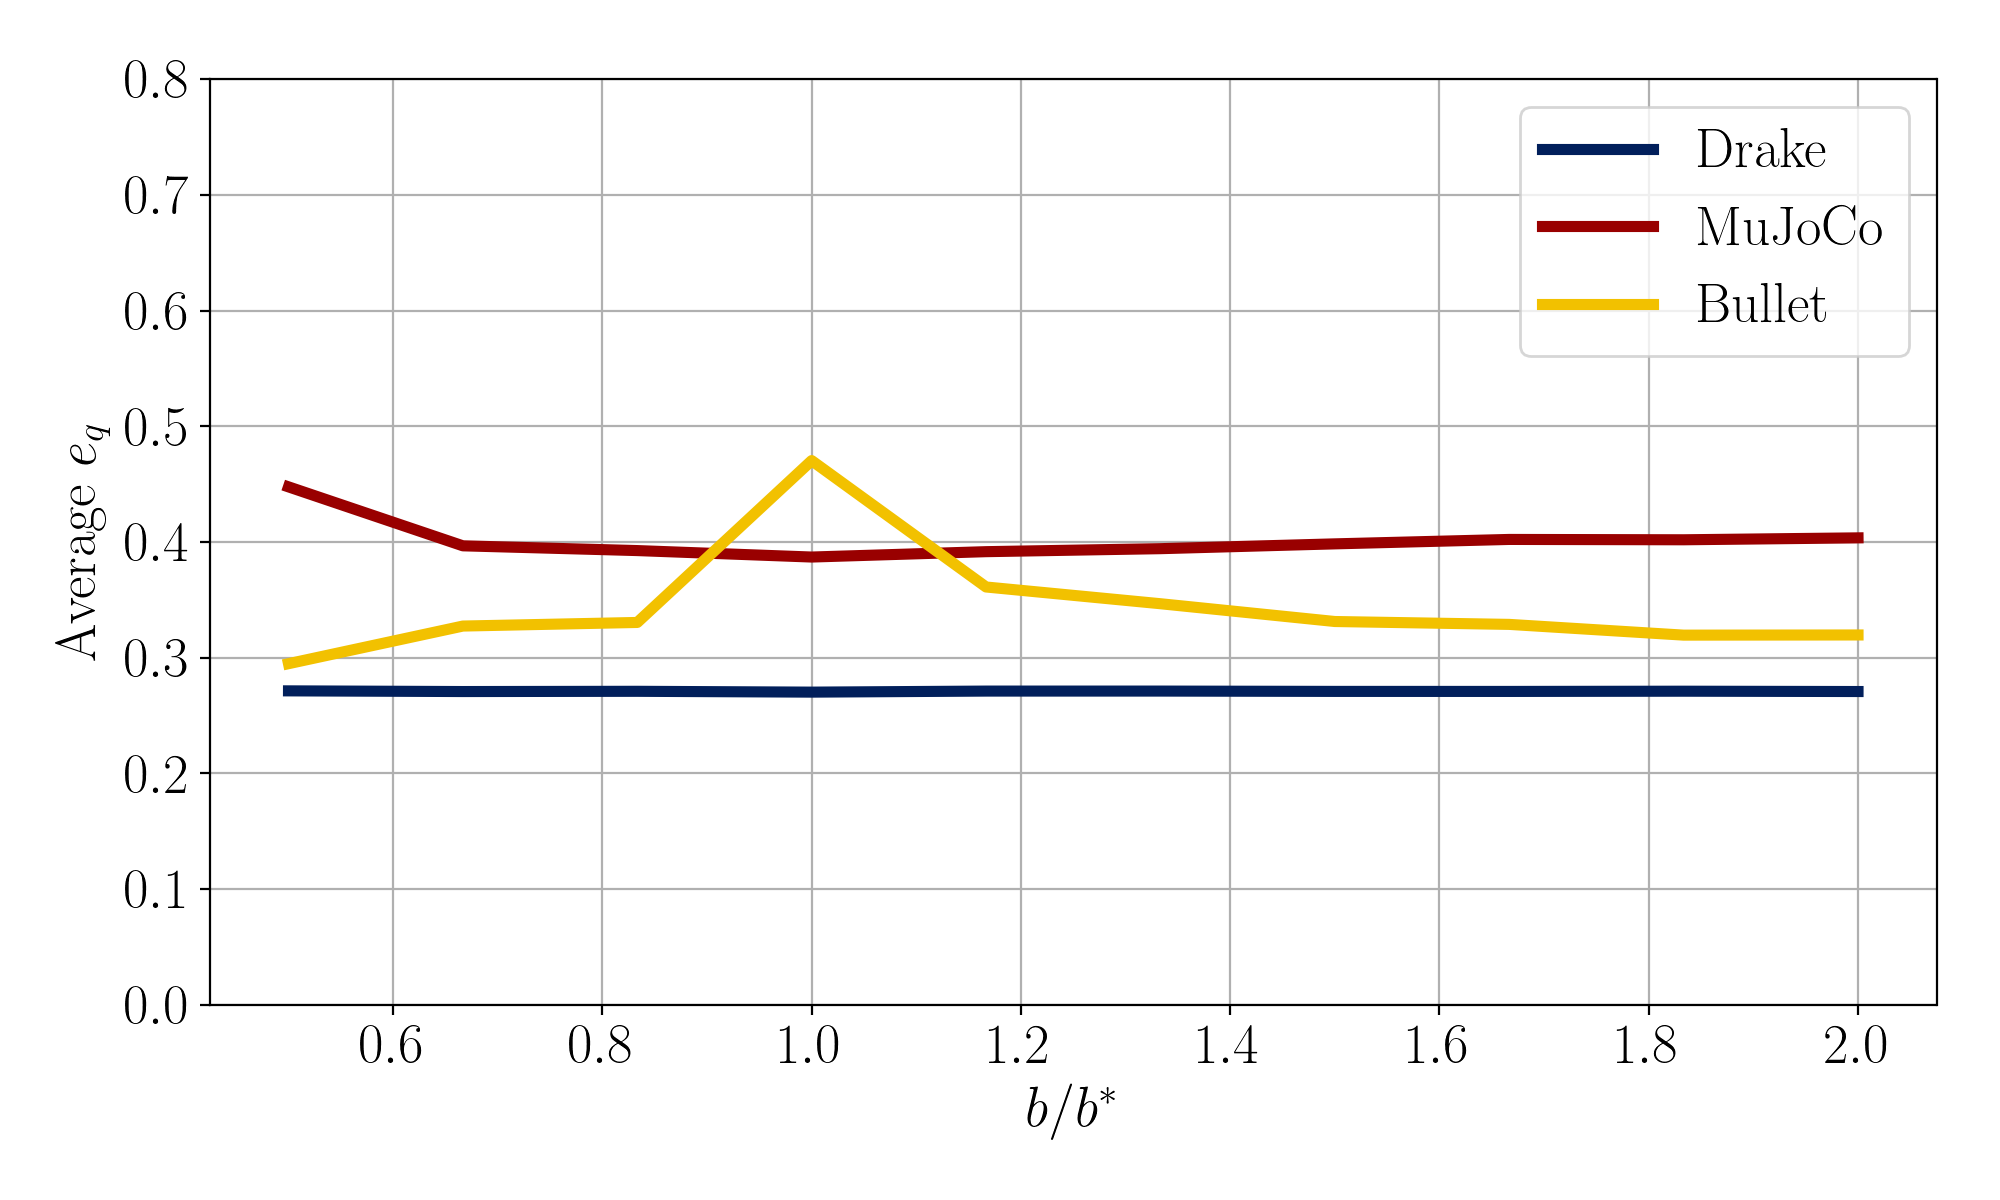
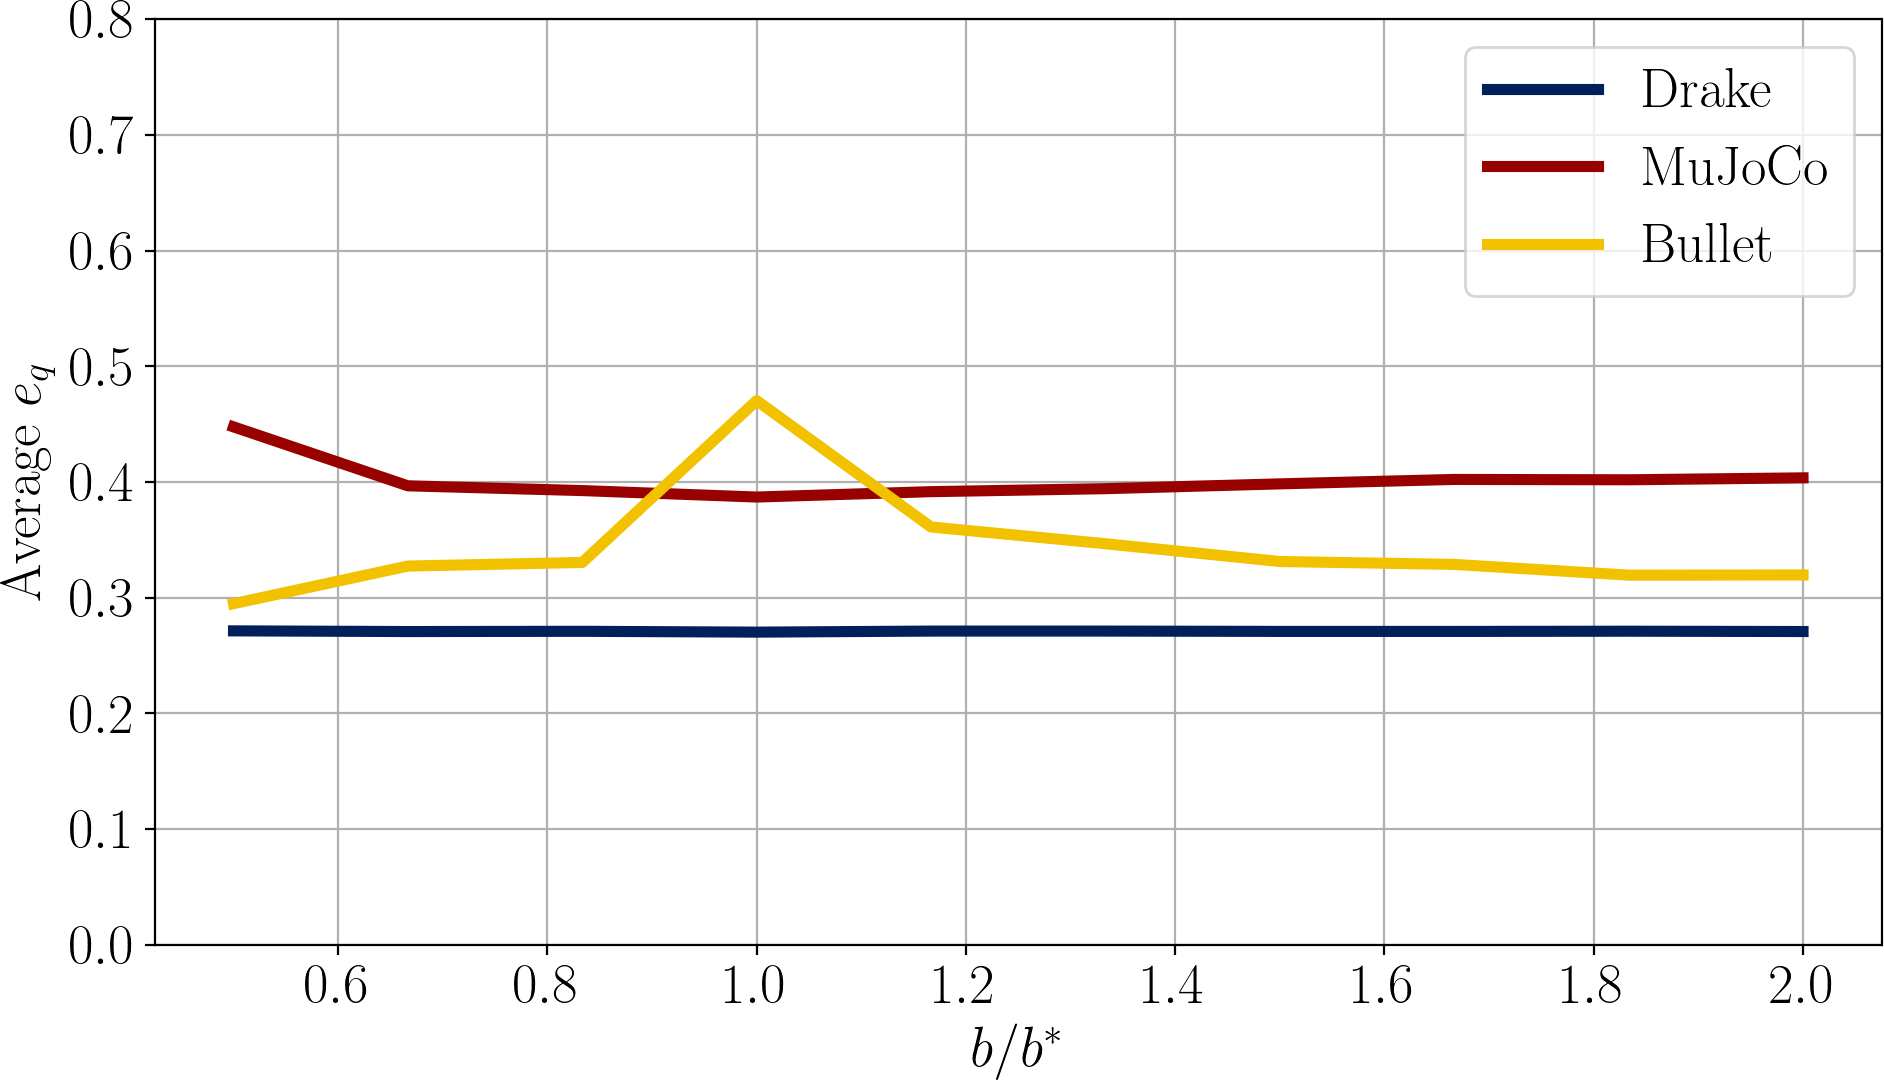
more figure updates

diff --git a/examples/contact_parameter_learning/cube_figures.py b/examples/contact_parameter_learning/cube_figures.py
@@ -135,6 +135,7 @@ def make_stiffness_sensitivity_analysis_figure():
 
     ## plotting
     legend_strs = []
+    ps.set_figsize((8,6))
     for id in ids:
         legend_strs.append(format_sim_name(id))
         k_opt = params[id]['stiffness']
@@ -164,7 +165,7 @@ def make_friction_sensitivity_analysis_figure():
 
     ## plotting
     legend_strs = []
-
+    ps.set_figsize((8,6))
     for id in ids:
         legend_strs.append(format_sim_name(id))
         k_opt = params[id][mu_keys[id]]
@@ -173,7 +174,7 @@ def make_friction_sensitivity_analysis_figure():
 
     plt.xlabel('$\mu / \mu^{*}$')
     plt.legend(legend_strs)
-    plt.ylabel('Average $e_{q}$')
+    # plt.ylabel('Average $e_{q}$')
     plt.ylim((0, 0.8))
     ps.save_fig('FrictionSensitivity.png')
 
@@ -193,7 +194,7 @@ def make_damping_sensitivity_analysis_figure():
 
     ## plotting
     legend_strs = []
-
+    ps.set_figsize((8,6))
     for id in ids:
         legend_strs.append(format_sim_name(id))
         k_opt = params[id][mu_keys[id]]
@@ -202,7 +203,7 @@ def make_damping_sensitivity_analysis_figure():
 
     plt.xlabel('$b / b^{*}$')
     plt.legend(legend_strs)
-    plt.ylabel('Average $e_{q}$')
+    # plt.ylabel('Average $e_{q}$')
     plt.ylim((0, 0.8))
     ps.save_fig('DampingSensitivity.png')
     # plt.show()
@@ -263,10 +264,10 @@ def visualize_cube_initial_condition():
     sim.sim_step(CUBE_DATA_DT)
 
 if __name__ == '__main__':
-    make_estimated_pdf_figure()
+    # make_estimated_pdf_figure()
     # make_friction_sensitivity_analysis_figure()
-    # make_damping_sensitivity_analysis_figure()
+    make_damping_sensitivity_analysis_figure()
     # make_stiffness_sensitivity_analysis_figure()
     # make_error_vs_time_plot()
-    make_contact_impulse_plot()
+    # make_contact_impulse_plot()
     # visualize_cube_initial_condition()

diff --git a/bindings/pydairlib/common/plot_styler.py b/bindings/pydairlib/common/plot_styler.py
@@ -36,7 +36,7 @@ class PlotStyler():
     else:
       matplotlib.rcParams['figure.figsize'] = figsize[0], figsize[1]
     matplotlib.rcParams['figure.autolayout'] = True
-    font = {'size': 20, 'family':'serif', 'serif':['Computer Modern']}
+    font = {'size': 24, 'family':'serif', 'serif':['Computer Modern']}
     matplotlib.rc('text', usetex=True)
     matplotlib.rc('font', **font)
     matplotlib.rcParams['lines.linewidth'] = 4

diff --git a/examples/contact_parameter_learning/spawn_cube_learners.py b/examples/contact_parameter_learning/spawn_cube_learners.py
@@ -3,7 +3,7 @@ import subprocess
 cmd = 'bazel-bin/examples/contact_parameter_learning/learn_cube_parameters'
 sims = ['drake', 'mujoco', 'bullet']
 
-n_experiments = 2
+n_experiments = 1
 
 for i in range(n_experiments):
     processes = []

diff --git a/examples/contact_parameter_learning/learn_cube_parameters.py b/examples/contact_parameter_learning/learn_cube_parameters.py
@@ -42,7 +42,7 @@ num_workers = 1
 num_trials = 550
 num_train = 300
 
-budget = 2000
+budget = 1000
 
 
 
